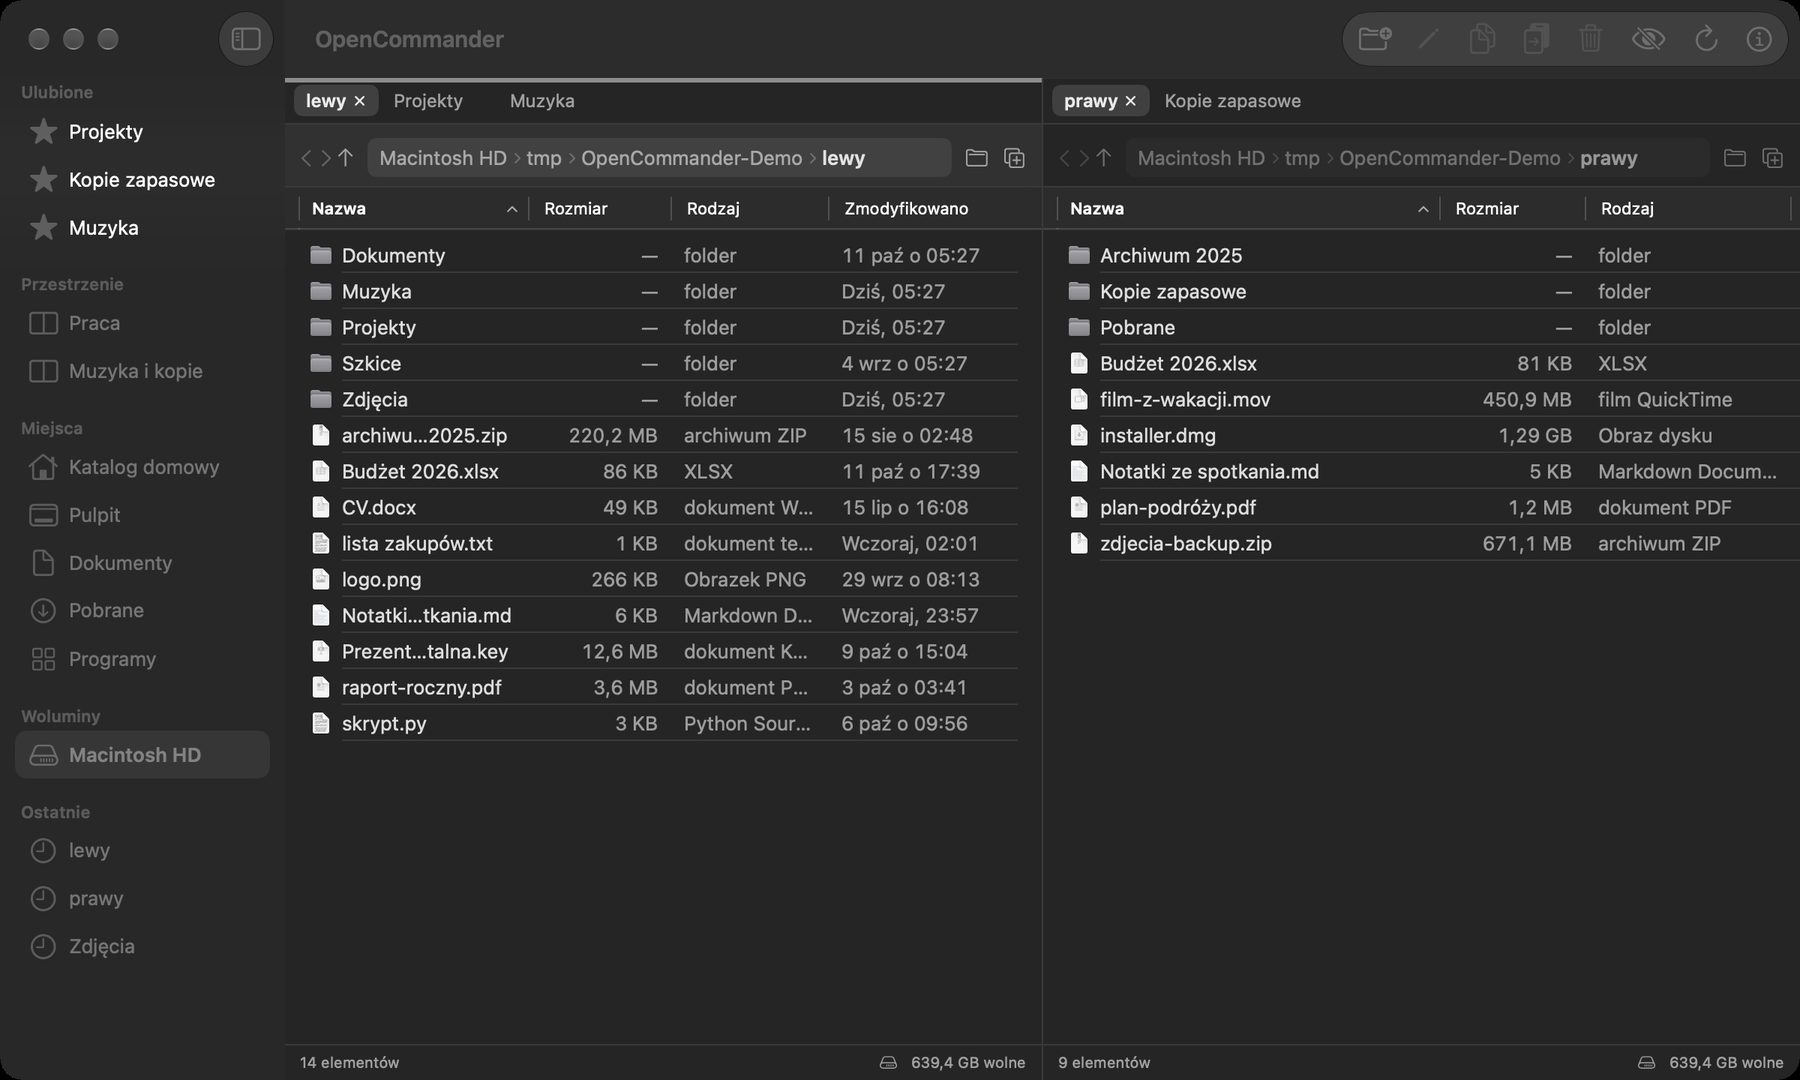
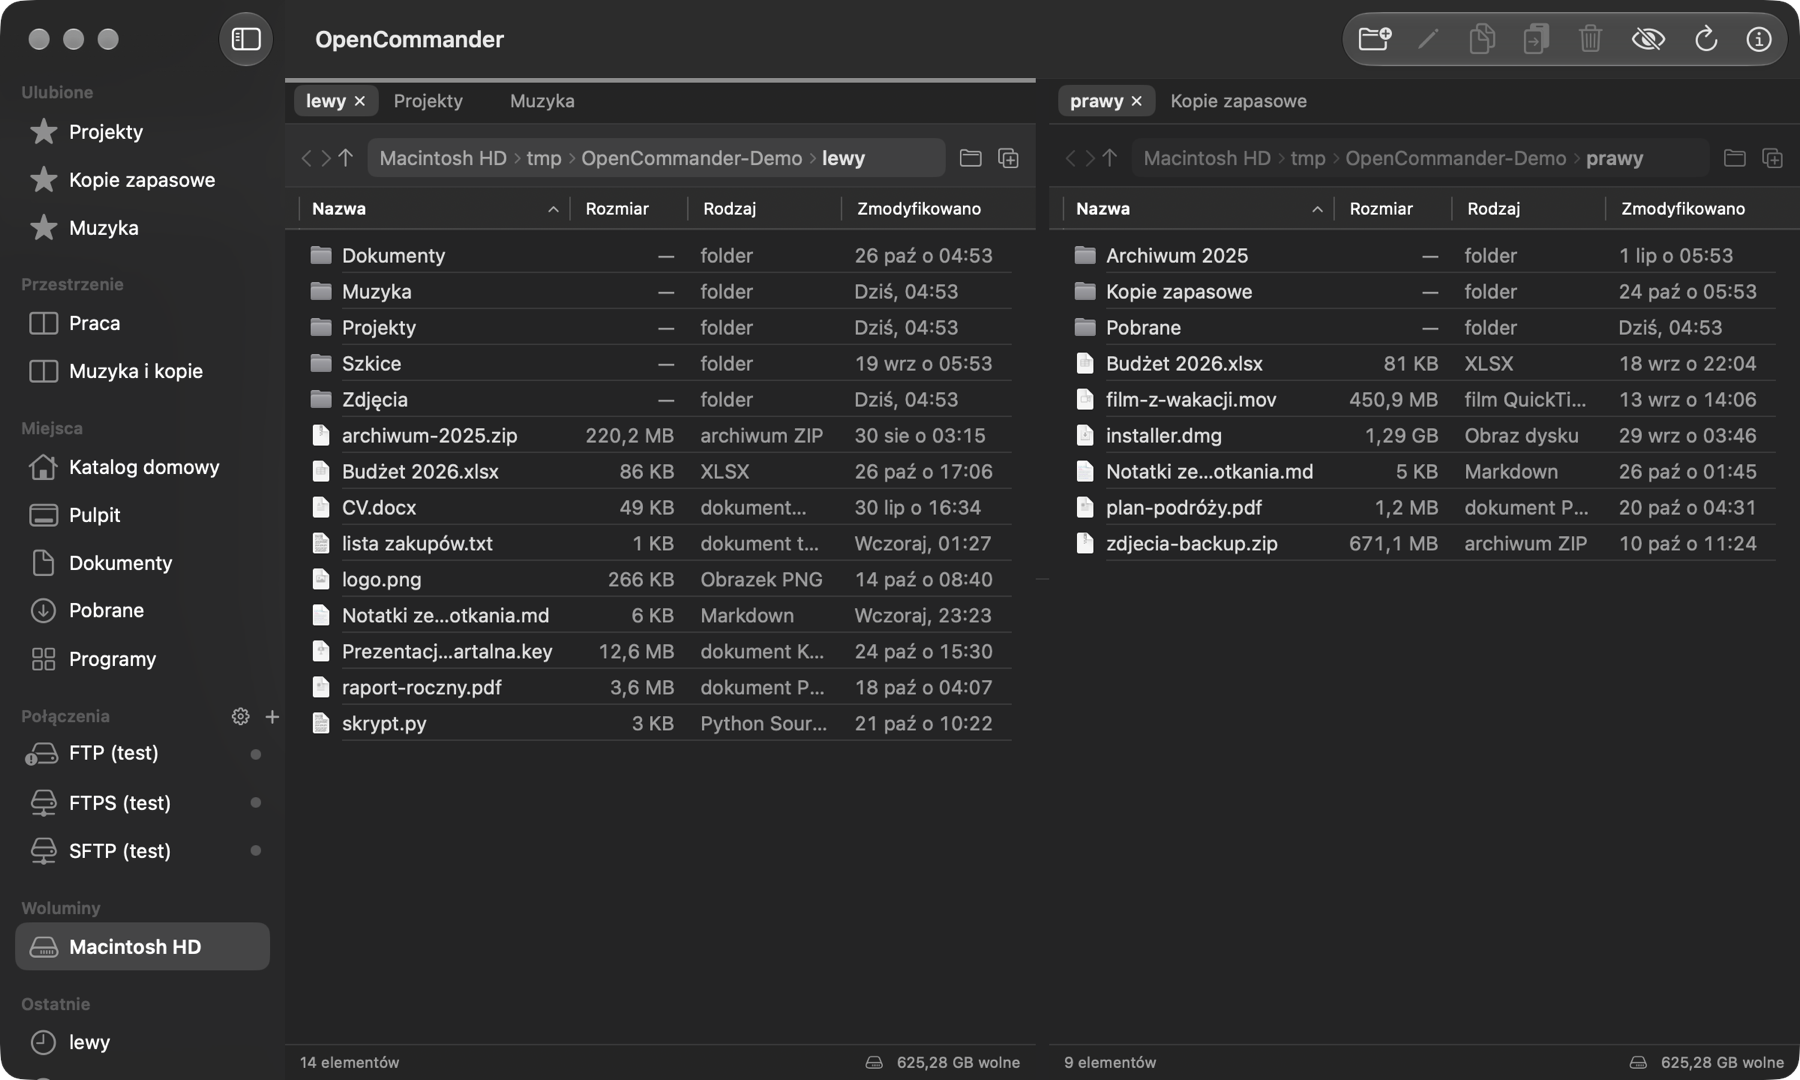
Nowe zrzuty ekranu z sekcją Połączenia (serwery testowe)
- docs/screenshots/dark.png i light.png: w pasku bocznym widoczne trzy
  fikcyjne profile (FTP, FTPS, SFTP na domenach example.*), bez prywatnych danych
- README (EN/PL): opis zrzutów uwzględnia sekcję Połączenia

diff --git a/README.md b/README.md
@@ -5,7 +5,7 @@ A native, dual-pane file manager for macOS. Local folders and **SFTP**, **FTP**,
 No Electron, no account, no telemetry: the app only connects to servers you add yourself.
 
 <p align="center">
-  <img src="docs/screenshots/dark.png" alt="OpenCommander, dark theme, two panels with tabs" width="900"><br>
+  <img src="docs/screenshots/dark.png" alt="OpenCommander, dark theme, two panels with tabs and a Connections section" width="900"><br>
   <img src="docs/screenshots/light.png" alt="OpenCommander, light theme" width="900">
 </p>
 

diff --git a/docs/README.pl.md b/docs/README.pl.md
@@ -6,7 +6,7 @@
 *(EN: a native dual-pane file manager for macOS with local files plus SFTP, FTP, FTPS and WebDAV. UI language: Polish.)*
 
 <p align="center">
-  <img src="screenshots/dark.png" alt="OpenCommander — ciemny motyw, dwa panele z kartami" width="900"><br>
+  <img src="screenshots/dark.png" alt="OpenCommander — ciemny motyw, dwa panele z kartami i sekcją Połączenia" width="900"><br>
   <img src="screenshots/light.png" alt="OpenCommander — jasny motyw" width="900">
 </p>
 
